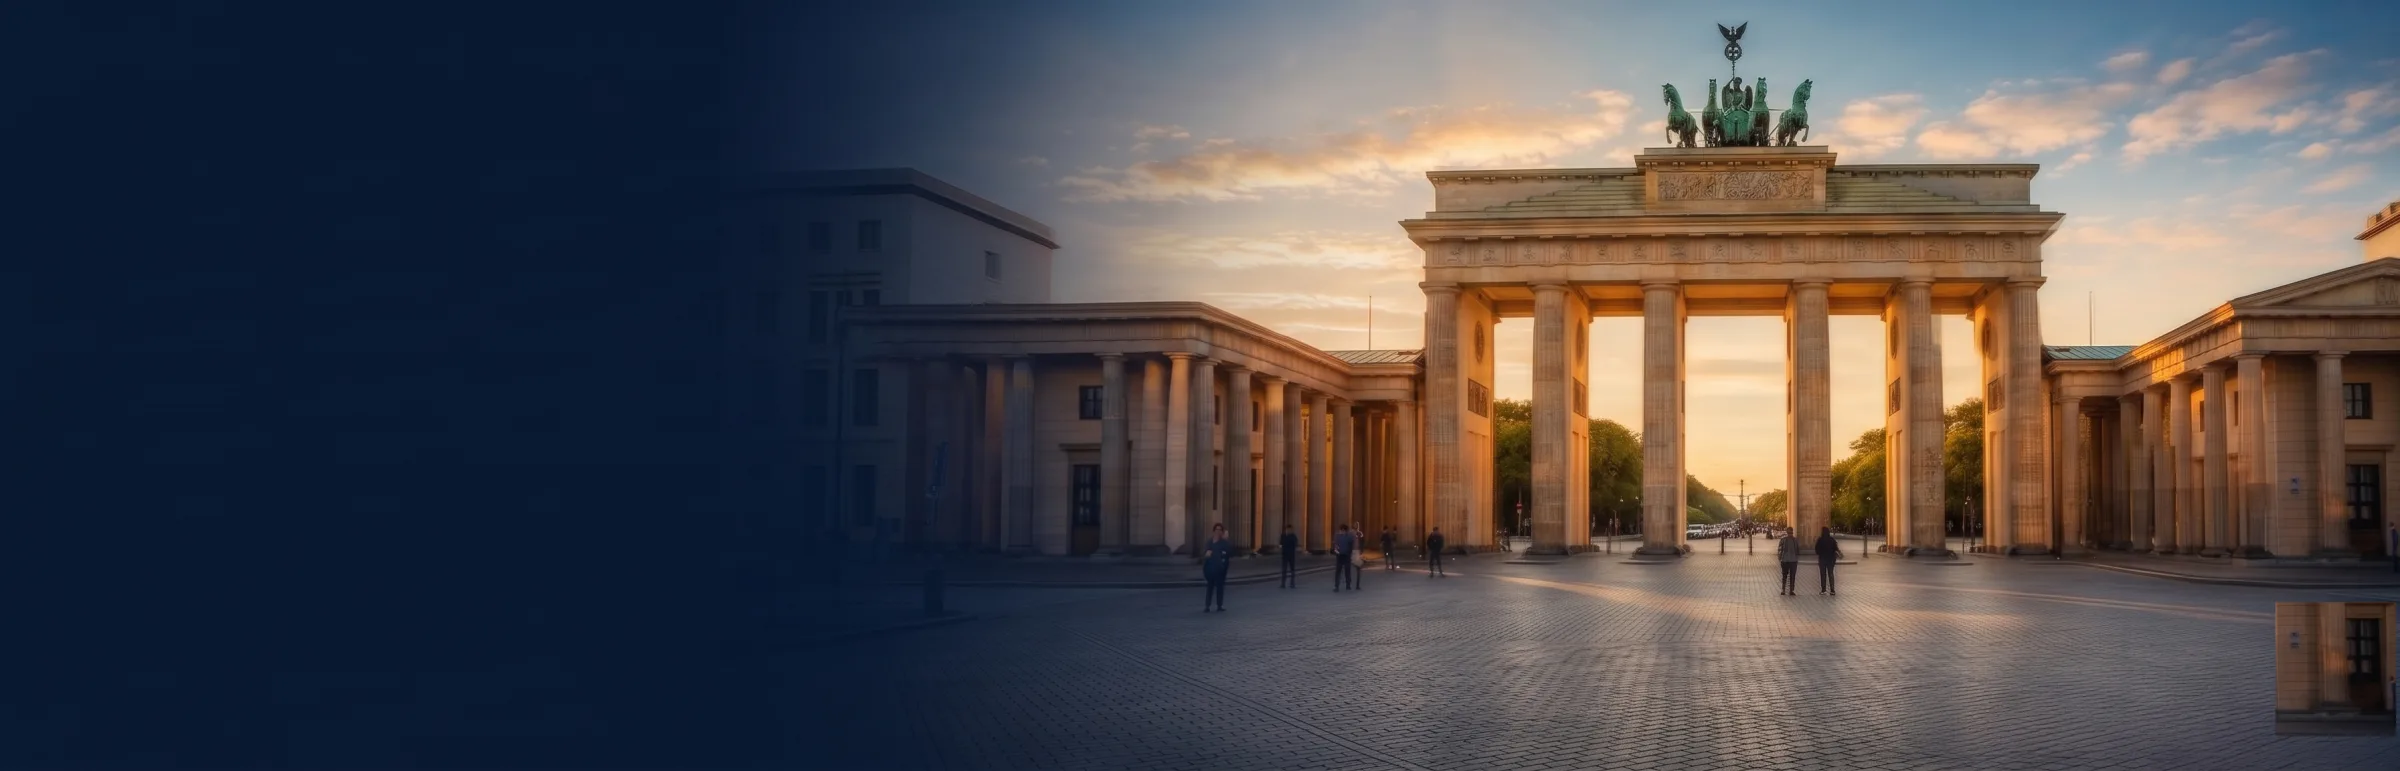
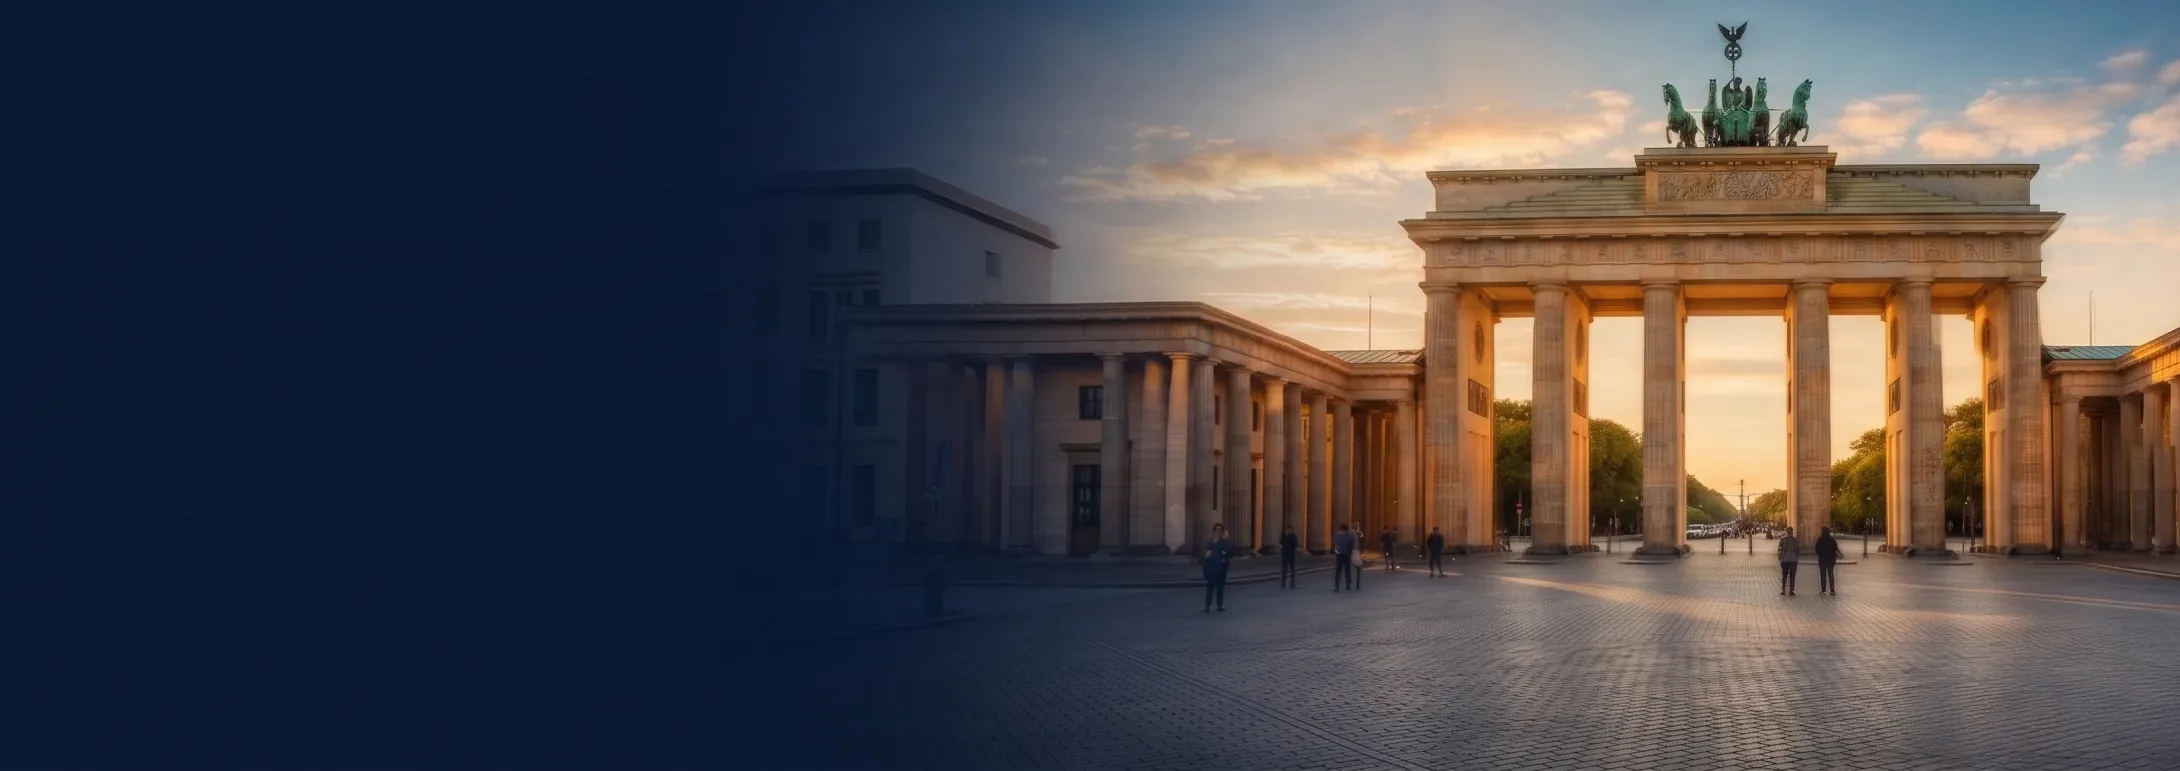
feat(hero): mobil açılı Brandenburg full-bleed + desktop artefakt temizliği
Mobil: yeni açılı Brandenburg görseli (kapı sağ-üstte, lacivert zemin), Gemini
logosu kaldırıldı, full-bleed arka plan (object-right-top) — mockup düzeni.
Desktop: logo-temizleme yamasının oluşturduğu sağ artefakt sağdan kırpılarak
giderildi (2180x771). Rozet 2 satır + ufak aralık/konum ayarları.

diff --git a/almanya-uni/resources/views/home.blade.php b/almanya-uni/resources/views/home.blade.php
@@ -11,37 +11,45 @@
 {{-- =================================================================== --}}
 {{-- HERO --}}
 {{-- =================================================================== --}}
-<section class="relative overflow-hidden bg-gradient-to-br from-primary-800 via-primary-900 to-primary-800 text-white">
+<section class="relative overflow-hidden bg-gradient-to-b from-primary-900 to-primary-800 lg:bg-gradient-to-br lg:from-primary-800 lg:via-primary-900 lg:to-primary-800 text-white">
     {{-- ===== MASAÜSTÜ: full-bleed yatay panorama (solunda lacivert geçiş) ===== --}}
     {{-- Gemini ile üretildi, logo temizlendi, WebP optimize. --}}
     <div aria-hidden="true" class="hidden lg:block absolute inset-0 z-0">
         <img src="{{ asset('img/hero/hero-desktop.webp') }}" alt=""
-             width="2400" height="771"
+             width="2180" height="771"
              fetchpriority="high" decoding="async"
              class="w-full h-full object-cover object-center">
         {{-- Soldan (yazı tarafı) lacivert → sağa şeffaf --}}
         <div class="absolute inset-0 bg-gradient-to-r from-primary-900 via-primary-900/40 to-transparent"></div>
     </div>
 
-    {{-- ===== MOBİL: üstte temiz görsel bandı (kapı net), içerik altında lacivert zeminde ===== --}}
-    <div aria-hidden="true" class="lg:hidden relative z-0">
+    {{-- ===== MOBİL: full-bleed arka plan (kapı sağ-üstte, yazı sol/alt lacivert zeminde) ===== --}}
+    {{-- Görsel zaten çoğunlukla lacivert; ağır overlay gerekmez. object-right-top → kapı sağ-üstte kalır. --}}
+    <div aria-hidden="true" class="lg:hidden absolute inset-0 z-0">
         <img src="{{ asset('img/hero/hero-mobile.webp') }}" alt=""
-             width="1000" height="1676"
+             width="1200" height="1800"
              fetchpriority="high" decoding="async"
-             class="w-full h-[42vh] min-h-[300px] object-cover object-center">
-        {{-- Bandın altı lacivere erisin (içeriğe yumuşak geçiş) + üstte hafif karartma --}}
-        <div class="absolute inset-0 bg-gradient-to-b from-primary-900/30 via-transparent to-primary-900"></div>
+             class="w-full h-full object-cover object-right-top">
+        {{-- En altta hafif navy — alt içerik (stat kartları) net dursun --}}
+        <div class="absolute inset-0 bg-gradient-to-t from-primary-900/50 via-transparent to-transparent"></div>
     </div>
 
     {{-- ince nokta deseni (tüm hero) --}}
     <div aria-hidden="true" class="absolute inset-0 z-0 opacity-[0.06] pointer-events-none"
          style="background-image: radial-gradient(circle at 1px 1px, white 1px, transparent 0); background-size: 24px 24px;"></div>
 
-    <div class="relative z-10 max-w-[1400px] mx-auto px-4 py-12 md:py-16 lg:py-20">
+    <div class="relative z-10 max-w-[1400px] mx-auto px-4 pt-5 pb-10 md:py-16 lg:py-20">
         {{-- Badge --}}
-        <span class="inline-flex items-center gap-2 bg-white/10 border border-white/20 backdrop-blur px-3.5 py-1.5 rounded-full text-xs font-semibold uppercase tracking-wide mb-5">
+        @php
+            // Rozet metnini "·" işaretinden 2 satıra böl: "...İÇİN" (1. satır) + "2026 GÜNCEL" (2. satır)
+            $__badgeParts = array_map('trim', explode('·', __('For international students · 2026 updated'), 2));
+        @endphp
+        <span class="inline-flex items-center gap-2 bg-white/10 border border-white/20 backdrop-blur px-3.5 py-1.5 rounded-2xl text-[11px] font-semibold uppercase tracking-wide mb-5">
             <span class="text-accent-400"><x-svg-icon name="academic-cap" class="w-4 h-4" /></span>
-            {{ __('For international students · 2026 updated') }}
+            <span class="flex flex-col leading-[1.2] text-left">
+                <span>{{ $__badgeParts[0] }}</span>
+                @isset($__badgeParts[1])<span>{{ $__badgeParts[1] }}</span>@endisset
+            </span>
         </span>
 
         {{-- Başlık --}}